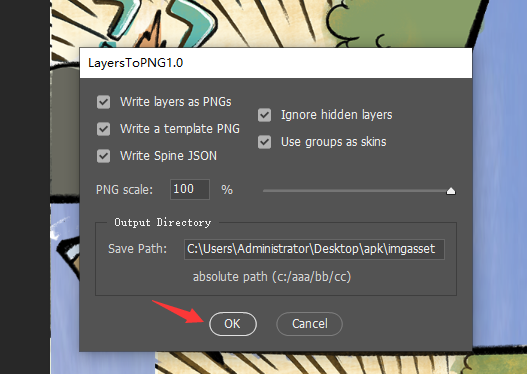
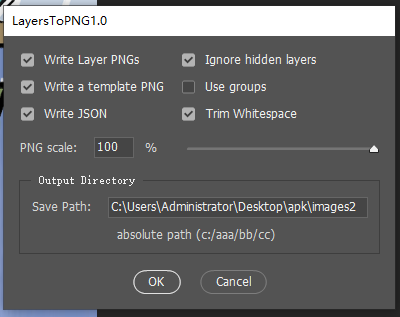
更新PS脚本 readme

diff --git a/PSDImporter/PhotoShopScript/ExportToPNG.jsx b/PSDImporter/PhotoShopScript/ExportToPNG.jsx
@@ -318,7 +318,7 @@ function showDialog () {
 		var group = checkboxGroup.add("group");
 			group.orientation = "column";
 			group.alignChildren = "left";
-			var writePngsCheckbox = group.add("checkbox", undefined, " Write layers as PNGs");
+			var writePngsCheckbox = group.add("checkbox", undefined, " Write PNGs");
 			writePngsCheckbox.value = writePngs;
 			var writeTemplateCheckbox = group.add("checkbox", undefined, " Write a template PNG");
 			writeTemplateCheckbox.value = writeTemplate;
@@ -329,7 +329,7 @@ function showDialog () {
 			group.alignChildren = "left";
 			var ignoreHiddenLayersCheckbox = group.add("checkbox", undefined, " Ignore hidden layers");
 			ignoreHiddenLayersCheckbox.value = ignoreHiddenLayers;
-			var groupsAsSkinsCheckbox = group.add("checkbox", undefined, " Use groups as skins");
+			var groupsAsSkinsCheckbox = group.add("checkbox", undefined, " Use groups");
 			groupsAsSkinsCheckbox.value = groupsAsSkins;
 			 var groupsTrimWhiteSpaceCheckbox = group.add("checkbox", undefined, " Trim Whitespace");
 			 groupsTrimWhiteSpaceCheckbox.value = trimWhitespace;

diff --git a/README.md b/README.md
@@ -9,15 +9,32 @@ PSD生成UGUI界面和场景
 
    ![image-20220219221748479](img/image-20220219221748479.png)
 
-2. PS中操作
+3. PS中操作
 
    ![image-20220219221854573](img/image-20220219221854573.png)
 
    					![image-20220219221920658](img/image-20220219221920658.png)
 
+   * `Write Layer Pngs`  将ps中图层导出png
+   * `Ignore hidden Layer` 忽略隐藏图层 ,如果勾选则不导出PS中隐藏图层
+   * `Write a template PNG` 写入一张模板
+   * `User groups` 是否使用组,勾选会按PS组导出
+   * `Write Json` 是否导出json, Unity中会用到
+   * `Trim Whitespace` 是否去除空白,不勾选则导出原始画布尺寸
+
+   ***
+
+   
+
+   ![](img/0.gif)
+
    等待一段时间之后,在对应的文件夹会生成相应的资源文件
 
    ![image-20220219222232023](img/image-20220219222232023.png)
+
+   ***
+
+   
 
 3. 将生成的文件导入Unity中,然后将图片格式设置成`Sprite`
 
